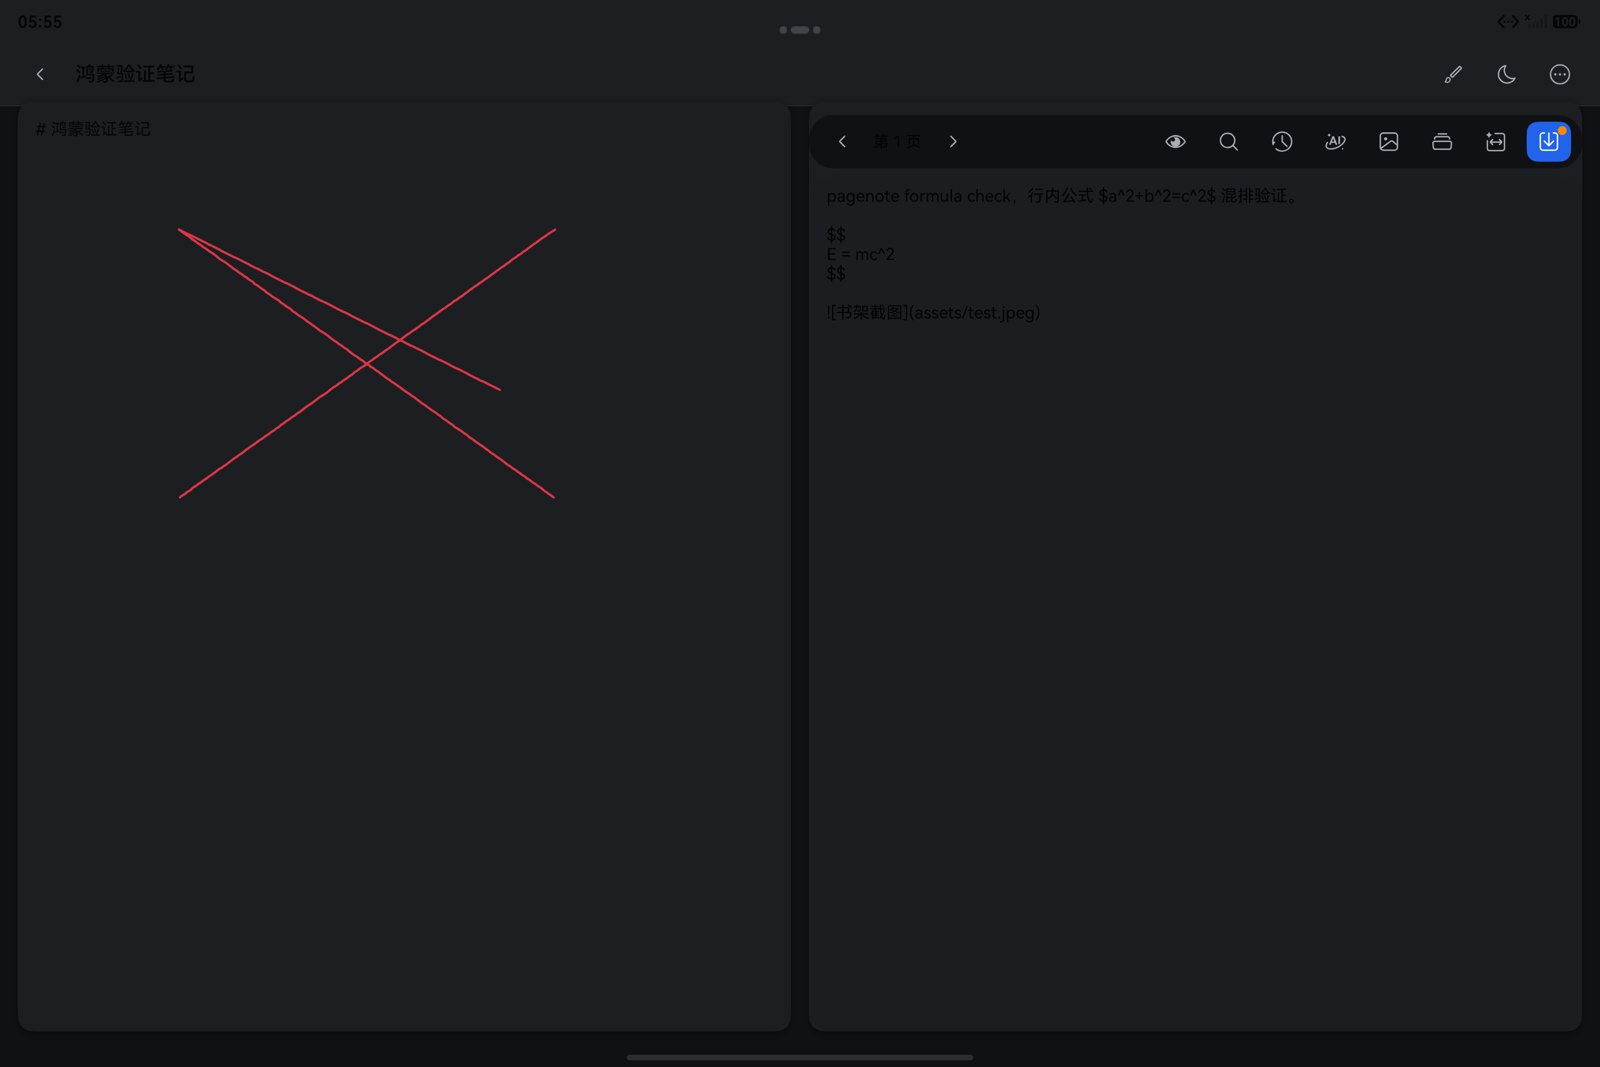
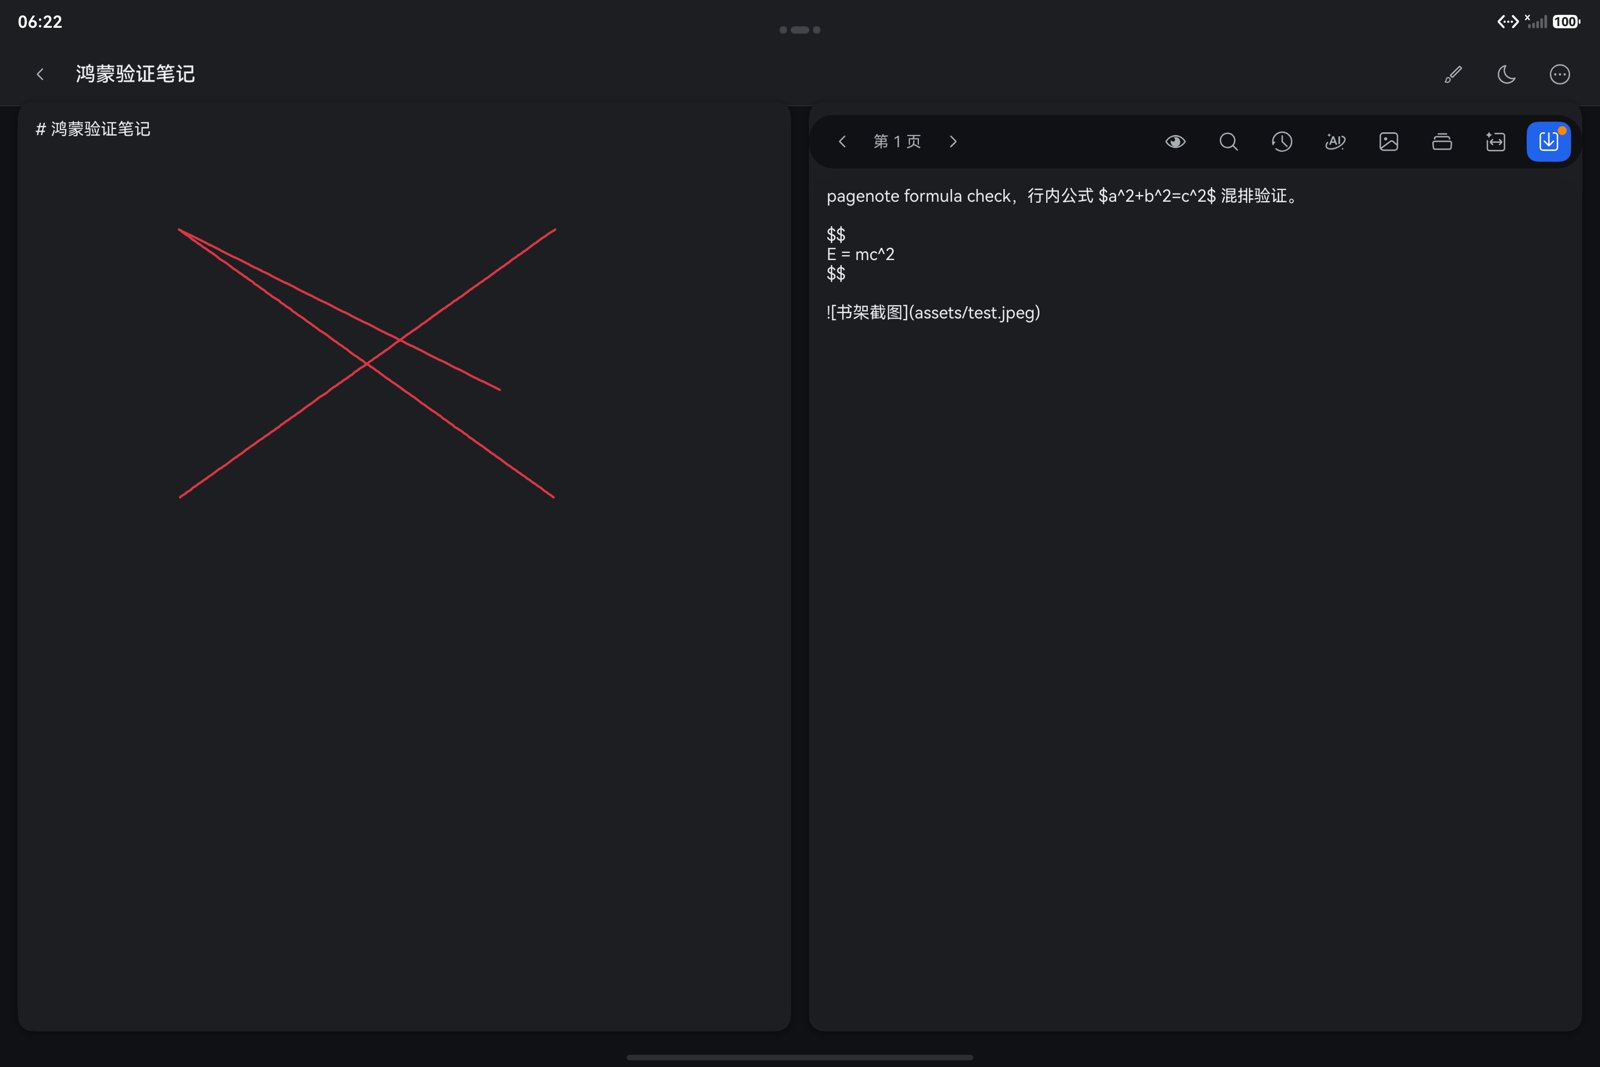
harmonyos: 深色模式真正跟随系统——media query 通道替代失效的 envProp；补默认色文字显式着色与状态栏反转

diff --git a/CHANGELOG.md b/CHANGELOG.md
@@ -2,6 +2,8 @@
 
 ## Unreleased / 尚未发布
 
+- Make HarmonyOS dark mode actually follow the system, fixing the previous non-working attempt. The `Environment.envProp('colorMode')` channel never changes value on this platform build (stays 0 in both light and dark — and note the enum trap: `ConfigurationConstant` has DARK=0/LIGHT=1 while the ArkUI `ColorMode` used by envProp is LIGHT=0/DARK=1), so the app now tracks the system through a media query `(dark-mode: true)` listener in EntryAbility, writing an `isDarkMode` AppStorage flag that all themed components consume. Verified live on the MatePad emulator: light→dark→light round-trip without restarting the app. Two more dark-mode defects fixed in the same pass: texts that relied on default colors (note editor, source markdown, page indicator, project name, flashcard review/library, AI result, rain account/lesson rows) were dark-on-dark and now use explicit palette colors, and the status/navigation bar content color now follows the app theme via setWindowSystemBarProperties. / 修复鸿蒙深色模式真正跟随系统（此前实现不生效）：envProp('colorMode') 通道在本平台构建上值恒定不变（深浅态都是 0；另有枚举陷阱——ConfigurationConstant 是 DARK=0/LIGHT=1，而 envProp 用的 ArkUI ColorMode 是 LIGHT=0/DARK=1），改为 EntryAbility 里 media query `(dark-mode: true)` 监听写入 isDarkMode 标记供全部主题组件消费。模拟器实测不重启应用完成 浅→深→浅 往返切换。同批修复：依赖默认颜色的文字（笔记编辑器、原文、页码、项目名、闪卡、AI 结果、雨课堂账号行）深色下黑压黑，已全部改为显式色板颜色；状态栏/导航条内容色经 setWindowSystemBarProperties 跟随应用主题。
+
 - Add dark mode to the HarmonyOS app: the UiTheme tokens are now a dual light/dark palette, and every page, the Markdown preview, and IconButton consume the system color mode via `Environment.envProp('colorMode')` + `@StorageProp`. Page backgrounds extend into the bottom navigation strip so no white edge remains in dark mode. Two real platform lessons landed in the project skill doc: ArkUI component getters are unreliable in build (our isDark getter returned undefined — plain methods work), and this MatePad emulator image never propagates dark config to third-party apps (config/env/setColorMode all stay LIGHT), so the palette was verified by manual AppStorage injection (dark screenshots emulator-30/31) while system-follow needs a real device. Also in this batch: sheets and remaining gray buttons moved onto the shared tokens, and bookshelf cards show covers — the first Yuketang slide image when present, a type icon block otherwise. / 鸿蒙端支持深色模式：UiTheme 升级为明暗双套色板，页面/Markdown 预览/IconButton 经 envProp + @StorageProp 跟随系统深浅色；页面背景延伸到底部导航条区域，深色下不留白边。两条平台经验沉淀进项目技能文档：ArkUI 组件 get 访问器在 build 中不可靠（isDark 返回 undefined，改普通方法后正常）；本模拟器镜像不向三方应用下发深色配置（config/env/setColorMode 均保持 LIGHT），色板经手动注入 AppStorage 验证（深色截图 emulator-30/31），跟随系统需真机验收。本批还把弹层与灰按钮统一到令牌，书架卡片增加封面（雨课堂项目取首页来源图，其余显示类型图标块）。
 
 - Restyle the HarmonyOS UI with a proper design language: a shared UiTheme token set (gray page background, white cards with 14vp radius and soft shadows, brand primary with soft-fill active states, three-level text colors) replaces the flat gray look. The bookshelf is now a multi-column card grid with rounded type badges and human-readable timestamps, plus an icon-led empty state; the reader's document and note panes are floating cards on a gray canvas, the top toolbar is white with a hairline divider, the note toolbar becomes a gray capsule, and icon buttons go borderless (transparent idle, soft-tint active, solid only for primary actions like save/new project). Verified on the MatePad emulator with before/after screenshots (emulator-28/29); unit tests 16/16. / 鸿蒙端视觉整体重设计：新增 UiTheme 设计令牌（灰底页面、14vp 圆角白卡片与轻阴影、品牌主色与浅底激活态、三级文字色），替换原先平铺灰样式。书架改为多列卡片网格（圆角类型徽标、可读时间格式、图标空状态）；阅读页文档/笔记面板悬浮于灰色画布，顶部工具栏白底细分隔线，笔记工具条改灰色胶囊，图标按钮去边框（常态透明、激活浅彩底、仅主按钮实心）。模拟器前后对比截图存档（emulator-28/29），单测 16/16。

diff --git a/.kimi/skills/harmonyos-dev/SKILL.md b/.kimi/skills/harmonyos-dev/SKILL.md
@@ -139,12 +139,13 @@ harmonyos/
 - 消除 hvigor 兼容告警：修饰器方法内用 `if (deviceInfo.apiAvailable('26.0.0'))` 语句级守卫（编译器 api_check 只认 if 语句守卫，不认三元表达式）；裸 `apiAvailable` 不是全局函数，要走 `deviceInfo.apiAvailable`。
 - 现成实现：`entry/src/main/ets/components/CnTypography.ets`（Text/TextArea 中文排版修饰器）。
 
-## 12. 深浅色模式适配（2026-11-09 实测）
+## 12. 深浅色模式适配（2026-11-09 实测，含一次结论修正）
 
-- 链路：`EntryAbility.onCreate` 里 `Environment.envProp('colorMode', ColorMode.LIGHT)`，组件 `@StorageProp('colorMode')` 消费，颜色统一走 `components/UiTheme.ets` 的双套取色函数。
-- **组件内禁止用 `get` 计算属性**：`private get isDark()` 在 build 中返回 undefined（值明明已到组件），改普通方法 `isDarkMode()` 立即正常——ArkUI struct 转换对 getter 不可靠，状态派生一律用方法。
-- **本机模拟器镜像（API 24 / 6.1.0.125）不向三方应用下发深色配置**：系统切深色后 `context.config.colorMode`、`envProp('colorMode')` 均为 0，`getApplicationContext().setColorMode(DARK)` 也不生效。验证色板只能手动 `AppStorage.setOrCreate('colorMode', ColorMode.DARK)` 注入（验完必须删掉）。真机跟随系统属待验收项。
-- 深色下页面背景记得 `expandSafeArea([SafeAreaType.SYSTEM], [SafeAreaEdge.BOTTOM])`，否则底部导航条区域留白边。
+- **可用链路**：`EntryAbility` 在 loadContent 回调里 `uiContext.getMediaQuery().matchMediaSync('(dark-mode: true)')` 取初值并 `on('change')` 监听，写 `AppStorage('isDarkMode')`；组件 `@StorageProp('isDarkMode')` 消费，颜色统一走 `components/UiTheme.ets` 的双套取色函数。模拟器实测运行中切换即生效。
+- **不要用 `Environment.envProp('colorMode')`**：本镜像（API 24 / 6.1.0.125）上该值深浅两态恒为 0（组件级实测），无切换语义。
+- **枚举陷阱**：`ConfigurationConstant.ColorMode` 是 `DARK=0 / LIGHT=1`，ArkUI `ColorMode`（envProp 文档用）是 `LIGHT=0 / DARK=1`——读 `config.colorMode` 数字时千万别拿错表。
+- **组件内禁止用 `get` 计算属性**：`private get isDark()` 在 build 中返回 undefined（值明明已到组件），改普通方法立即正常——ArkUI struct 转换对 getter 不可靠。
+- 深色下三件事别漏：① Text/TextArea 不设 fontColor 时系统默认色不跟应用色板（本镜像恒深色文字），正文一律显式给色；② `setWindowSystemBarProperties` 把状态栏/导航条内容色随主题反转；③ 页面背景 `expandSafeArea(BOTTOM)`，否则底部导航条区域留白边。
 
 ## 13. 测试与验证纪律（项目要求）
 

diff --git a/docs/harmonyos/PROGRESS.md b/docs/harmonyos/PROGRESS.md
@@ -244,6 +244,16 @@ CodeGenie 复检仅剩风格建议类提示，逐项评估后的处置：
 - **书架卡片封面**：`ProjectSummary.cover`——雨课堂项目取 `src/assets/yuketang/` 第一张来源图（file:// 前缀），其余项目显示类型图标块（PDF 浅蓝 doc_text / MD 浅绿 textformat）；徽标移除（封面已含类型信息）
 - 验证：浅色回归正常、深色双截图、构建+单测 16/16
 
+## 深色模式跟随系统修复（2026-11-09 晚，已提交，推翻上一批结论）
+
+- **上一批"镜像不下发深色配置"的结论不准确**，真相有两层：
+  1. **枚举陷阱**：`ConfigurationConstant.ColorMode` 是 `DARK=0 / LIGHT=1`，而 `Environment.envProp('colorMode')` 使用的 ArkUI `ColorMode` 是 `LIGHT=0 / DARK=1`——当时把 config 的 0 误读为 LIGHT，实际系统深色一直在正常下发（config=0=DARK）
+  2. **envProp 通道在本构建上确实坏**：深浅两态下 `@StorageProp('colorMode')` 恒为 0（组件级实测），不能用于主题判断
+- **可用通道是 media query**：`uiContext.getMediaQuery().matchMediaSync('(dark-mode: true)')` 深浅两态报告正确且支持 `on('change')` 监听——EntryAbility 注册后写 `AppStorage('isDarkMode')`，全部主题组件改消费该布尔值；窗口销毁时 off
+- **状态栏/导航条**：自定义深色背景下系统不会自动反转内容色（本镜像 config 恒上报），用 `setWindowSystemBarProperties({ statusBarContentColor, navigationBarContentColor })` 跟随应用主题
+- **默认颜色文字黑压黑**：TextArea/Text 不设 fontColor 时用系统默认色（在本镜像上恒为深色文字），深色下不可读——笔记编辑器、原文、页码、项目名、闪卡复习/卡片库、AI 结果、雨课堂账号/课堂行全部补显式色板颜色
+- **验证**：模拟器上不重启应用完成 浅→深→浅 往返（截图 emulator-30/31 已更新为真实系统切换版本），状态栏同步反转；单测 16/16
+
 ## 已知边界
 
 - 已在 MatePad Pro 13 模拟器逐项运行验证（见上文各节）；仍未验证：PdfView 真实渲染（镜像无 PDF Kit）、竖屏上机、实时课堂采集（需真实上课时段）、手写笔压力曲线与悬停视觉（需实体笔/鼠标）、分屏模式实机运行
